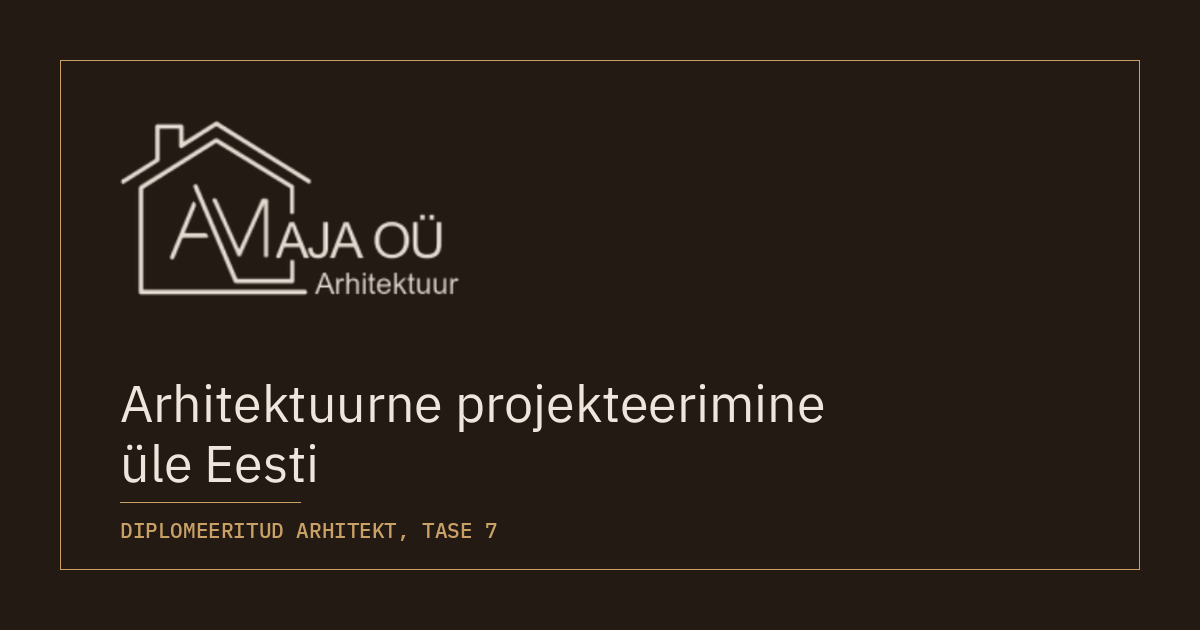
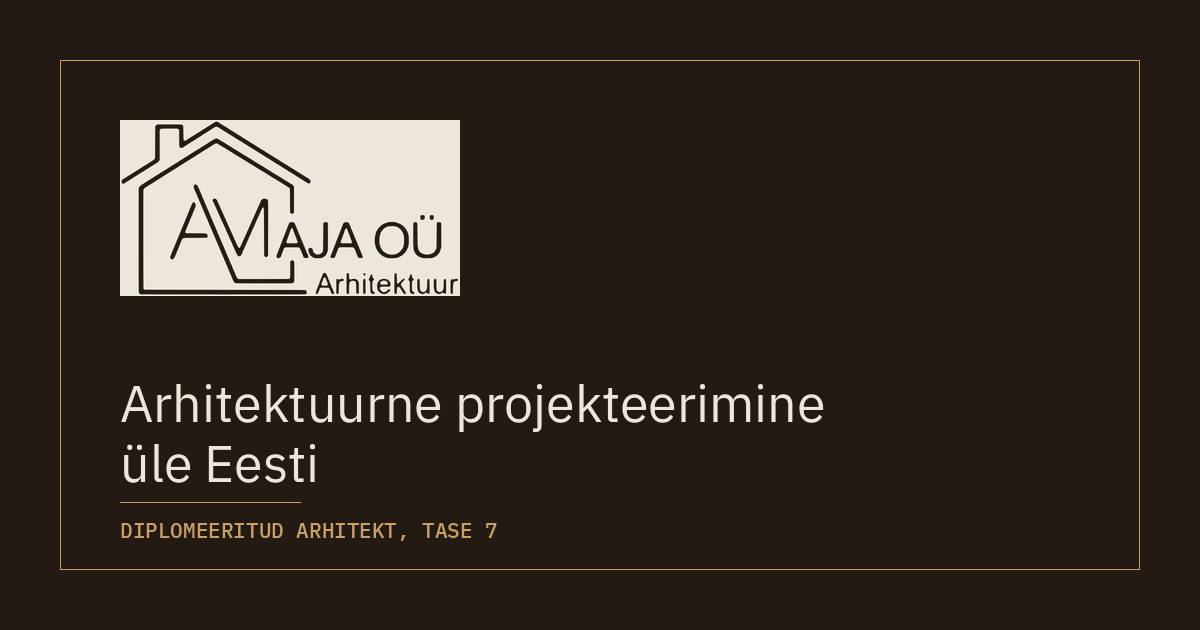
Add files via upload

Changed region(s): [[0.0925, 0.181, 0.4008, 0.4825]]

diff --git a/index.html b/index.html
@@ -266,7 +266,7 @@
 <header class="pais">
   <div class="pais-sisu">
     <a class="logo" href="/" aria-label="A-MAJA OÜ avaleht">
-      <img src="/pildid/a-maja-logo-hele.png" alt="A-MAJA OÜ logo" width="1212" height="628">
+      <img src="/pildid/a-maja-logo-hele.svg" alt="A-MAJA OÜ logo" width="2424" height="1256">
     </a>
     <button class="menuu-nupp" type="button" aria-expanded="false" aria-controls="peamenuu">
       <span class="menuu-nupp-tekst">Menüü</span>
@@ -336,7 +336,7 @@
          alt="Musta vertikaalse puitlaudisega üksikelamu järsu viilkatuse ja suure kaldakna all oleva elutoaga männimetsas.">
     <div class="avapilt-sisu">
       <h1 id="hero-pealkiri" class="visuaalselt-peidus">A-MAJA OÜ, arhitektuurne projekteerimine üle Eesti</h1>
-      <img class="avapilt-logo" src="/pildid/a-maja-logo-hele.png" width="1212" height="628"
+      <img class="avapilt-logo" src="/pildid/a-maja-logo-hele.svg" width="2424" height="1256"
            alt="A-MAJA OÜ, arhitektuuribüroo">
       <p class="avapilt-rida">Arhitektuurne projekteerimine üle Eesti</p>
     </div>
@@ -458,7 +458,7 @@
 <footer class="jalus">
   <div class="raam jalus-ruudustik">
     <div class="jalus-plokk">
-      <img src="/pildid/a-maja-logo-hele.png" alt="A-MAJA OÜ logo" width="1212" height="628" loading="lazy">
+      <img src="/pildid/a-maja-logo-hele.svg" alt="A-MAJA OÜ logo" width="2424" height="1256" loading="lazy">
       <p>Arhitektuurialane ettevõte. Projekteerime üksikelamuid, juurdeehitusi ja abihooneid, kuid ka suuremaid objekte.</p>
     </div>
     <div class="jalus-plokk">

diff --git a/kontakt.html b/kontakt.html
@@ -164,7 +164,7 @@
 <header class="pais">
   <div class="pais-sisu">
     <a class="logo" href="/" aria-label="A-MAJA OÜ avaleht">
-      <img src="/pildid/a-maja-logo-hele.png" alt="A-MAJA OÜ logo" width="1212" height="628">
+      <img src="/pildid/a-maja-logo-hele.svg" alt="A-MAJA OÜ logo" width="2424" height="1256">
     </a>
     <button class="menuu-nupp" type="button" aria-expanded="false" aria-controls="peamenuu">
       <span class="menuu-nupp-tekst">Menüü</span>
@@ -350,7 +350,7 @@
 <footer class="jalus">
   <div class="raam jalus-ruudustik">
     <div class="jalus-plokk">
-      <img src="/pildid/a-maja-logo-hele.png" alt="A-MAJA OÜ logo" width="1212" height="628" loading="lazy">
+      <img src="/pildid/a-maja-logo-hele.svg" alt="A-MAJA OÜ logo" width="2424" height="1256" loading="lazy">
       <p>Arhitektuurialane ettevõte. Projekteerime üksikelamuid, juurdeehitusi ja abihooneid, kuid ka suuremaid objekte.</p>
     </div>
     <div class="jalus-plokk">

diff --git a/meist.html b/meist.html
@@ -164,7 +164,7 @@
 <header class="pais">
   <div class="pais-sisu">
     <a class="logo" href="/" aria-label="A-MAJA OÜ avaleht">
-      <img src="/pildid/a-maja-logo-hele.png" alt="A-MAJA OÜ logo" width="1212" height="628">
+      <img src="/pildid/a-maja-logo-hele.svg" alt="A-MAJA OÜ logo" width="2424" height="1256">
     </a>
     <button class="menuu-nupp" type="button" aria-expanded="false" aria-controls="peamenuu">
       <span class="menuu-nupp-tekst">Menüü</span>
@@ -315,7 +315,7 @@
 <footer class="jalus">
   <div class="raam jalus-ruudustik">
     <div class="jalus-plokk">
-      <img src="/pildid/a-maja-logo-hele.png" alt="A-MAJA OÜ logo" width="1212" height="628" loading="lazy">
+      <img src="/pildid/a-maja-logo-hele.svg" alt="A-MAJA OÜ logo" width="2424" height="1256" loading="lazy">
       <p>Arhitektuurialane ettevõte. Projekteerime üksikelamuid, juurdeehitusi ja abihooneid, kuid ka suuremaid objekte.</p>
     </div>
     <div class="jalus-plokk">

diff --git a/teenused.html b/teenused.html
@@ -177,7 +177,7 @@
 <header class="pais">
   <div class="pais-sisu">
     <a class="logo" href="/" aria-label="A-MAJA OÜ avaleht">
-      <img src="/pildid/a-maja-logo-hele.png" alt="A-MAJA OÜ logo" width="1212" height="628">
+      <img src="/pildid/a-maja-logo-hele.svg" alt="A-MAJA OÜ logo" width="2424" height="1256">
     </a>
     <button class="menuu-nupp" type="button" aria-expanded="false" aria-controls="peamenuu">
       <span class="menuu-nupp-tekst">Menüü</span>
@@ -391,7 +391,7 @@
 <footer class="jalus">
   <div class="raam jalus-ruudustik">
     <div class="jalus-plokk">
-      <img src="/pildid/a-maja-logo-hele.png" alt="A-MAJA OÜ logo" width="1212" height="628" loading="lazy">
+      <img src="/pildid/a-maja-logo-hele.svg" alt="A-MAJA OÜ logo" width="2424" height="1256" loading="lazy">
       <p>Arhitektuurialane ettevõte. Projekteerime üksikelamuid, juurdeehitusi ja abihooneid, kuid ka suuremaid objekte.</p>
     </div>
     <div class="jalus-plokk">

diff --git a/404.html b/404.html
@@ -37,7 +37,7 @@
 <header class="pais">
   <div class="pais-sisu">
     <a class="logo" href="/" aria-label="A-MAJA OÜ avaleht">
-      <img src="/pildid/a-maja-logo-hele.png" alt="A-MAJA OÜ logo" width="1212" height="628">
+      <img src="/pildid/a-maja-logo-hele.svg" alt="A-MAJA OÜ logo" width="2424" height="1256">
     </a>
     <button class="menuu-nupp" type="button" aria-expanded="false" aria-controls="peamenuu">
       <span class="menuu-nupp-tekst">Menüü</span>
@@ -116,7 +116,7 @@
 <footer class="jalus">
   <div class="raam jalus-ruudustik">
     <div class="jalus-plokk">
-      <img src="/pildid/a-maja-logo-hele.png" alt="A-MAJA OÜ logo" width="1212" height="628" loading="lazy">
+      <img src="/pildid/a-maja-logo-hele.svg" alt="A-MAJA OÜ logo" width="2424" height="1256" loading="lazy">
       <p>Arhitektuurialane ettevõte. Projekteerime üksikelamuid, juurdeehitusi ja abihooneid, kuid ka suuremaid objekte.</p>
     </div>
     <div class="jalus-plokk">

diff --git a/aitah.html b/aitah.html
@@ -37,7 +37,7 @@
 <header class="pais">
   <div class="pais-sisu">
     <a class="logo" href="/" aria-label="A-MAJA OÜ avaleht">
-      <img src="/pildid/a-maja-logo-hele.png" alt="A-MAJA OÜ logo" width="1212" height="628">
+      <img src="/pildid/a-maja-logo-hele.svg" alt="A-MAJA OÜ logo" width="2424" height="1256">
     </a>
     <button class="menuu-nupp" type="button" aria-expanded="false" aria-controls="peamenuu">
       <span class="menuu-nupp-tekst">Menüü</span>
@@ -116,7 +116,7 @@
 <footer class="jalus">
   <div class="raam jalus-ruudustik">
     <div class="jalus-plokk">
-      <img src="/pildid/a-maja-logo-hele.png" alt="A-MAJA OÜ logo" width="1212" height="628" loading="lazy">
+      <img src="/pildid/a-maja-logo-hele.svg" alt="A-MAJA OÜ logo" width="2424" height="1256" loading="lazy">
       <p>Arhitektuurialane ettevõte. Projekteerime üksikelamuid, juurdeehitusi ja abihooneid, kuid ka suuremaid objekte.</p>
     </div>
     <div class="jalus-plokk">

diff --git a/privaatsus.html b/privaatsus.html
@@ -55,7 +55,7 @@
 <header class="pais">
   <div class="pais-sisu">
     <a class="logo" href="/" aria-label="A-MAJA OÜ avaleht">
-      <img src="/pildid/a-maja-logo-hele.png" alt="A-MAJA OÜ logo" width="1212" height="628">
+      <img src="/pildid/a-maja-logo-hele.svg" alt="A-MAJA OÜ logo" width="2424" height="1256">
     </a>
     <button class="menuu-nupp" type="button" aria-expanded="false" aria-controls="peamenuu">
       <span class="menuu-nupp-tekst">Menüü</span>
@@ -179,7 +179,7 @@
 <footer class="jalus">
   <div class="raam jalus-ruudustik">
     <div class="jalus-plokk">
-      <img src="/pildid/a-maja-logo-hele.png" alt="A-MAJA OÜ logo" width="1212" height="628" loading="lazy">
+      <img src="/pildid/a-maja-logo-hele.svg" alt="A-MAJA OÜ logo" width="2424" height="1256" loading="lazy">
       <p>Arhitektuurialane ettevõte. Projekteerime üksikelamuid, juurdeehitusi ja abihooneid, kuid ka suuremaid objekte.</p>
     </div>
     <div class="jalus-plokk">

diff --git a/tagasiside.html b/tagasiside.html
@@ -55,7 +55,7 @@
 <header class="pais">
   <div class="pais-sisu">
     <a class="logo" href="/" aria-label="A-MAJA OÜ avaleht">
-      <img src="/pildid/a-maja-logo-hele.png" alt="A-MAJA OÜ logo" width="1212" height="628">
+      <img src="/pildid/a-maja-logo-hele.svg" alt="A-MAJA OÜ logo" width="2424" height="1256">
     </a>
     <button class="menuu-nupp" type="button" aria-expanded="false" aria-controls="peamenuu">
       <span class="menuu-nupp-tekst">Menüü</span>
@@ -272,7 +272,7 @@
 <footer class="jalus">
   <div class="raam jalus-ruudustik">
     <div class="jalus-plokk">
-      <img src="/pildid/a-maja-logo-hele.png" alt="A-MAJA OÜ logo" width="1212" height="628" loading="lazy">
+      <img src="/pildid/a-maja-logo-hele.svg" alt="A-MAJA OÜ logo" width="2424" height="1256" loading="lazy">
       <p>Arhitektuurialane ettevõte. Projekteerime üksikelamuid, juurdeehitusi ja abihooneid, kuid ka suuremaid objekte.</p>
     </div>
     <div class="jalus-plokk">

diff --git a/tood.html b/tood.html
@@ -55,7 +55,7 @@
 <header class="pais">
   <div class="pais-sisu">
     <a class="logo" href="/" aria-label="A-MAJA OÜ avaleht">
-      <img src="/pildid/a-maja-logo-hele.png" alt="A-MAJA OÜ logo" width="1212" height="628">
+      <img src="/pildid/a-maja-logo-hele.svg" alt="A-MAJA OÜ logo" width="2424" height="1256">
     </a>
     <button class="menuu-nupp" type="button" aria-expanded="false" aria-controls="peamenuu">
       <span class="menuu-nupp-tekst">Menüü</span>
@@ -324,7 +324,7 @@
 <footer class="jalus">
   <div class="raam jalus-ruudustik">
     <div class="jalus-plokk">
-      <img src="/pildid/a-maja-logo-hele.png" alt="A-MAJA OÜ logo" width="1212" height="628" loading="lazy">
+      <img src="/pildid/a-maja-logo-hele.svg" alt="A-MAJA OÜ logo" width="2424" height="1256" loading="lazy">
       <p>Arhitektuurialane ettevõte. Projekteerime üksikelamuid, juurdeehitusi ja abihooneid, kuid ka suuremaid objekte.</p>
     </div>
     <div class="jalus-plokk">
